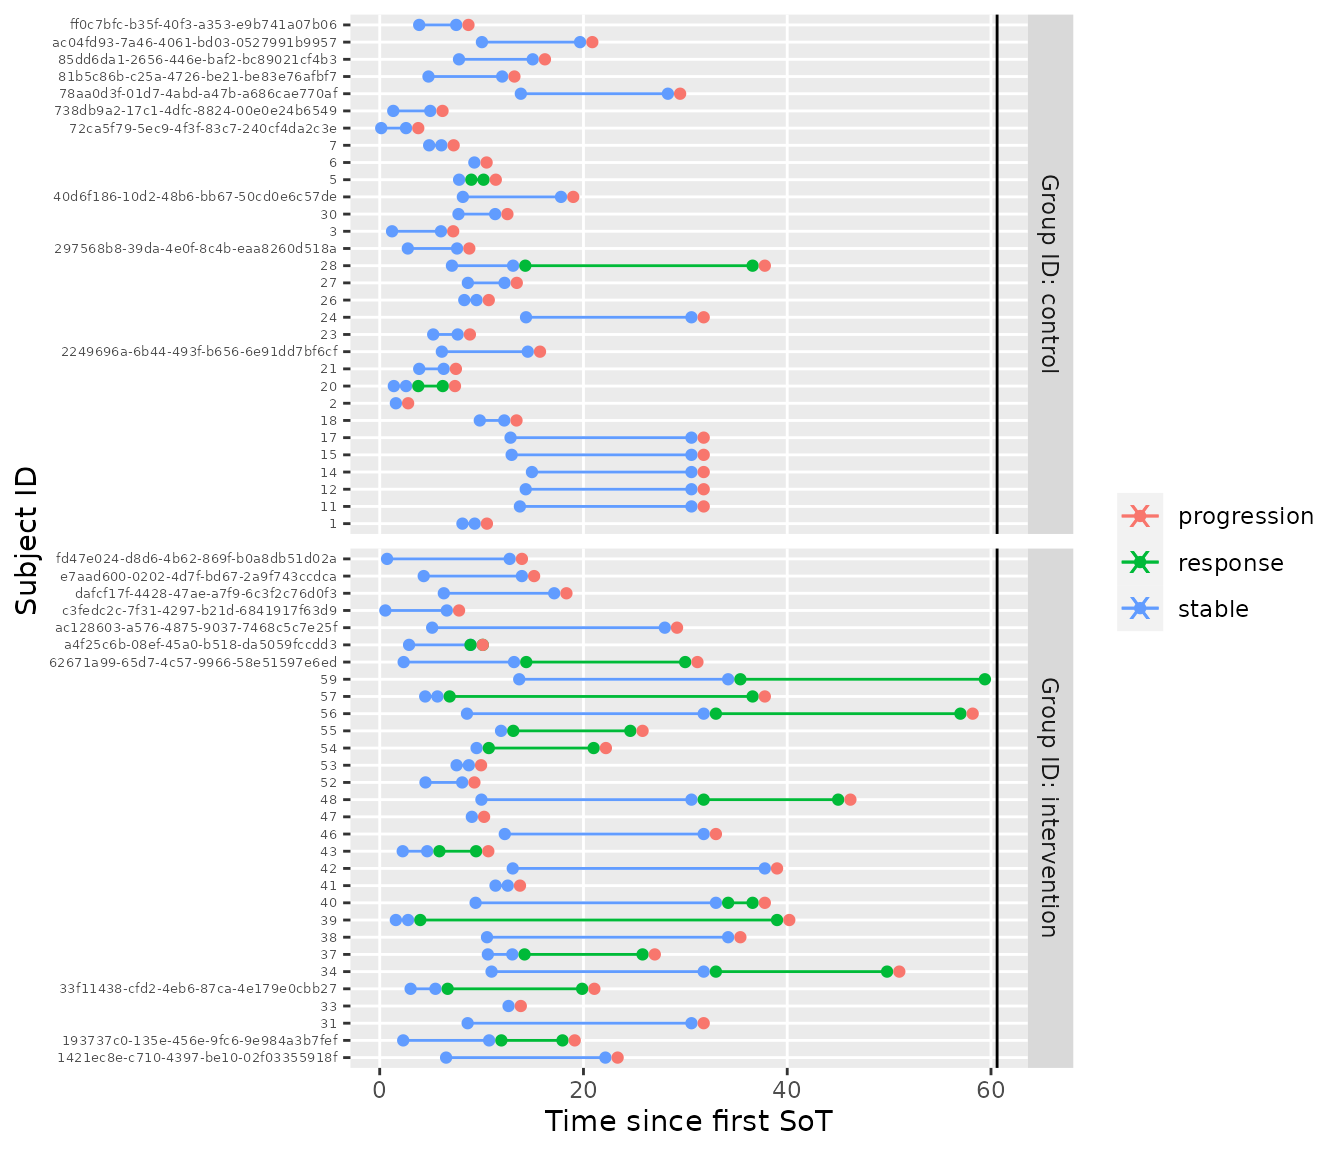
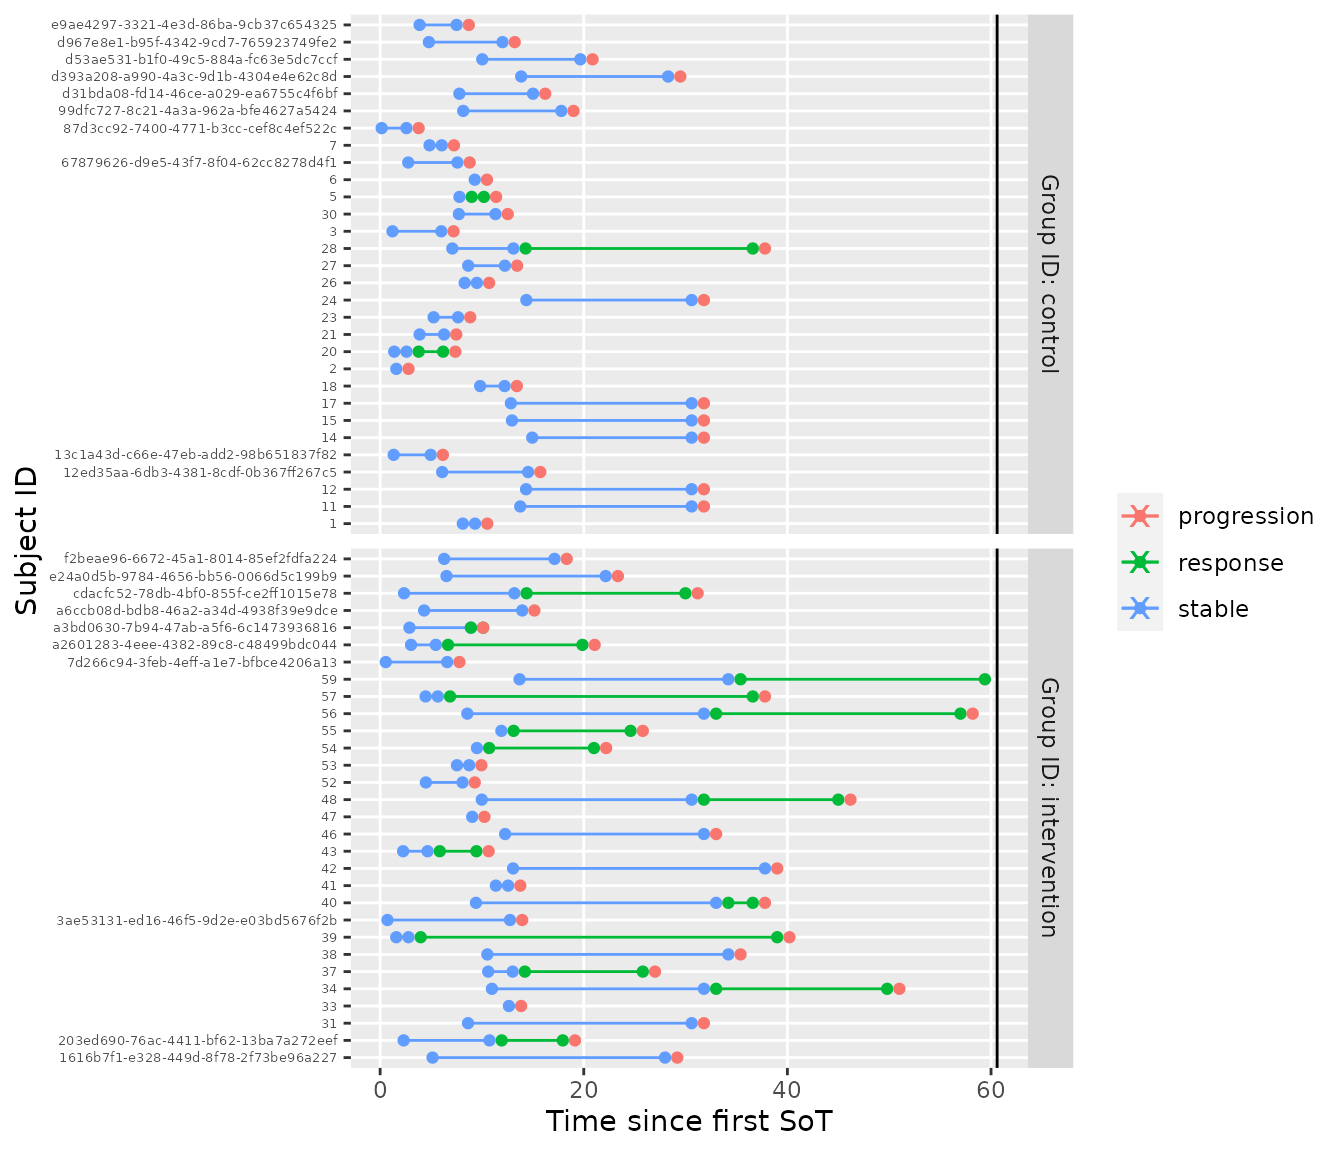
Deploying to gh-pages from @ Boehringer-Ingelheim/oncomsm@c155a6d2ede0ffe2783649ac5d74989cdfbe4db9 🚀

diff --git a/articles/multi-state-model-for-early-oncology.html b/articles/multi-state-model-for-early-oncology.html
@@ -90,10 +90,10 @@
 <p><strong>tl;dr:</strong> <em>Tumor response data is often treated as binary endpoint in early oncology trials (objective response or progression free survival at x months). This ignores the fact that these are time-to-event endpoints. Instead, the multi-state characteristics of the data can be exploited to reduce bias at interim analyses and drive event prediction for probability of success calculations.</em></p>
 <p>In early oncology trials, (objective tumor) response based on the RECIST criteria is often used as primary endpoint to establish the activity of a treatment. Response is often treated as binary variable although it is a delayed event endpoint. At the final analysis, this simplification is of little concern since all individuals tend to be followed up long enough to justify the assumption that non-responders are unlikely to still become responders. This approach is often plausible since individuals with tumors not responding to treatment ultimately progress. However, when continuously monitoring such a trial, the assumption of sufficient follow-up is no longer fulfilled and a simple binary analysis may be biased.</p>
 <p>In this vignette, the problem is addressed by extending the statistic binary response model to a three-state model for “stable”, “response”, and “progression or death”. The respective transition numbers are given in the graph below.</p>
-<div id="htmlwidget-54933b0518caf75d1bd4" style="width:672px;height:200px;" class="DiagrammeR html-widget"></div>
-<script type="application/json" data-for="htmlwidget-54933b0518caf75d1bd4">{"x":{"diagram":"\ngraph LR\n  stable -- 1 --> response\n  response -- 3 --> progression[progression or death]\n  stable -- 2 --> progression[progression or death]\n"},"evals":[],"jsHooks":[]}</script><p>Once someone becomes a responder, this model only allows a transition to the combined progression or death state. This means that progression and death are not modeled as competing events and simplifies analysis greatly over a model like the one below:</p>
-<div id="htmlwidget-e9be8e8c7e14ce83427d" style="width:672px;height:200px;" class="DiagrammeR html-widget"></div>
-<script type="application/json" data-for="htmlwidget-e9be8e8c7e14ce83427d">{"x":{"diagram":"\ngraph LR\n  stable -- 1 --> response\n  response -- 3a --> progression\n  response -- 3b --> death\n  progression -- 4 --> death\n  stable -- 2a --> progression\n  stable -- 2b --> death\n"},"evals":[],"jsHooks":[]}</script><p>Coming back to the simpler model, there is still a competing event issue when starting from ‘stable’. Often, the convenient hazard-based approach is used to model multi-state situations like this. The hazard-based approach is intuitive, especially when considering non-parametric estimation, and co variate inclusion is well-understood. However, a hazard-based approach has several disadvantages:</p>
+<div id="htmlwidget-a395fd945d453b030e94" style="width:672px;height:200px;" class="DiagrammeR html-widget"></div>
+<script type="application/json" data-for="htmlwidget-a395fd945d453b030e94">{"x":{"diagram":"\ngraph LR\n  stable -- 1 --> response\n  response -- 3 --> progression[progression or death]\n  stable -- 2 --> progression[progression or death]\n"},"evals":[],"jsHooks":[]}</script><p>Once someone becomes a responder, this model only allows a transition to the combined progression or death state. This means that progression and death are not modeled as competing events and simplifies analysis greatly over a model like the one below:</p>
+<div id="htmlwidget-5cb60651946dd58fbb45" style="width:672px;height:200px;" class="DiagrammeR html-widget"></div>
+<script type="application/json" data-for="htmlwidget-5cb60651946dd58fbb45">{"x":{"diagram":"\ngraph LR\n  stable -- 1 --> response\n  response -- 3a --> progression\n  response -- 3b --> death\n  progression -- 4 --> death\n  stable -- 2a --> progression\n  stable -- 2b --> death\n"},"evals":[],"jsHooks":[]}</script><p>Coming back to the simpler model, there is still a competing event issue when starting from ‘stable’. Often, the convenient hazard-based approach is used to model multi-state situations like this. The hazard-based approach is intuitive, especially when considering non-parametric estimation, and co variate inclusion is well-understood. However, a hazard-based approach has several disadvantages:</p>
 <ol style="list-style-type: decimal">
 <li><p>The hazard scale is difficult to interpret since it is a momentary risk, not a probability. This leads to problems with prior specification in a Bayesian setting. The Bayesian approach is, however, particularly useful in the early development process since it allows to augment data with prior opinion or evidence and thus improve accuracy.</p></li>
 <li><p>A hazard based, non-Markov multi-state model leads to intractable expressions for the implicitly given transition probabilities. Hence they need to be calculated by simulation which makes the model less convenient to work with if transition probabilities a or of primary interest. Since the (objective) response rate often plays an important role in the analysis of early oncology trials, this is a disadvantage.</p></li>
@@ -324,8 +324,8 @@ R &amp;\sim \operatorname{Bernoulli}(p) \\
 <span><span class="co">#&gt; </span></span>
 <span><span class="co">#&gt; SAMPLING FOR MODEL 'srp_model' NOW (CHAIN 1).</span></span>
 <span><span class="co">#&gt; Chain 1: </span></span>
-<span><span class="co">#&gt; Chain 1: Gradient evaluation took 0.000109 seconds</span></span>
-<span><span class="co">#&gt; Chain 1: 1000 transitions using 10 leapfrog steps per transition would take 1.09 seconds.</span></span>
+<span><span class="co">#&gt; Chain 1: Gradient evaluation took 0.000103 seconds</span></span>
+<span><span class="co">#&gt; Chain 1: 1000 transitions using 10 leapfrog steps per transition would take 1.03 seconds.</span></span>
 <span><span class="co">#&gt; Chain 1: Adjust your expectations accordingly!</span></span>
 <span><span class="co">#&gt; Chain 1: </span></span>
 <span><span class="co">#&gt; Chain 1: </span></span>
@@ -342,9 +342,9 @@ R &amp;\sim \operatorname{Bernoulli}(p) \\
 <span><span class="co">#&gt; Chain 1: Iteration: 4750 / 5250 [ 90%]  (Sampling)</span></span>
 <span><span class="co">#&gt; Chain 1: Iteration: 5250 / 5250 [100%]  (Sampling)</span></span>
 <span><span class="co">#&gt; Chain 1: </span></span>
-<span><span class="co">#&gt; Chain 1:  Elapsed Time: 0.933249 seconds (Warm-up)</span></span>
-<span><span class="co">#&gt; Chain 1:                10.2765 seconds (Sampling)</span></span>
-<span><span class="co">#&gt; Chain 1:                11.2098 seconds (Total)</span></span>
+<span><span class="co">#&gt; Chain 1:  Elapsed Time: 0.935392 seconds (Warm-up)</span></span>
+<span><span class="co">#&gt; Chain 1:                10.2599 seconds (Sampling)</span></span>
+<span><span class="co">#&gt; Chain 1:                11.1953 seconds (Total)</span></span>
 <span><span class="co">#&gt; Chain 1:</span></span>
 <span></span>
 <span><span class="fu"><a href="https://rdrr.io/r/graphics/plot.default.html" class="external-link">plot</a></span><span class="op">(</span><span class="va">mdl</span>, dt <span class="op">=</span> <span class="fu"><a href="https://rdrr.io/r/base/c.html" class="external-link">c</a></span><span class="op">(</span><span class="fl">0</span>, <span class="fl">36</span><span class="op">)</span>, sample <span class="op">=</span> <span class="va">smpl_posterior</span><span class="op">)</span></span></code></pre></div>
@@ -412,26 +412,26 @@ R &amp;\sim \operatorname{Bernoulli}(p) \\
 <span><span class="co">#&gt; <span style="color: #949494;"># A tibble: 20 × 7</span></span></span>
 <span><span class="co">#&gt;    group_id     subject_id                        t_sot from  to     t_min t_max</span></span>
 <span><span class="co">#&gt;    <span style="color: #949494; font-style: italic;">&lt;chr&gt;</span>        <span style="color: #949494; font-style: italic;">&lt;chr&gt;</span>                             <span style="color: #949494; font-style: italic;">&lt;dbl&gt;</span> <span style="color: #949494; font-style: italic;">&lt;chr&gt;</span> <span style="color: #949494; font-style: italic;">&lt;chr&gt;</span>  <span style="color: #949494; font-style: italic;">&lt;dbl&gt;</span> <span style="color: #949494; font-style: italic;">&lt;dbl&gt;</span></span></span>
-<span><span class="co">#&gt; <span style="color: #BCBCBC;"> 1</span> control      72ca5f79-5ec9-4f3f-83c7-240cf4d…  0.151 stab… <span style="color: #BB0000;">NA</span>     0.184   <span style="color: #BB0000;">Inf</span></span></span>
-<span><span class="co">#&gt; <span style="color: #BCBCBC;"> 2</span> control      738db9a2-17c1-4dfc-8824-00e0e24…  1.33  stab… <span style="color: #BB0000;">NA</span>     1.36    <span style="color: #BB0000;">Inf</span></span></span>
-<span><span class="co">#&gt; <span style="color: #BCBCBC;"> 3</span> control      297568b8-39da-4e0f-8c4b-eaa8260…  2.76  stab… <span style="color: #BB0000;">NA</span>     2.79    <span style="color: #BB0000;">Inf</span></span></span>
-<span><span class="co">#&gt; <span style="color: #BCBCBC;"> 4</span> control      ff0c7bfc-b35f-40f3-a353-e9b741a…  3.88  stab… <span style="color: #BB0000;">NA</span>     3.91    <span style="color: #BB0000;">Inf</span></span></span>
-<span><span class="co">#&gt; <span style="color: #BCBCBC;"> 5</span> control      81b5c86b-c25a-4726-be21-be83e76…  4.79  stab… <span style="color: #BB0000;">NA</span>     4.82    <span style="color: #BB0000;">Inf</span></span></span>
-<span><span class="co">#&gt; <span style="color: #BCBCBC;"> 6</span> control      2249696a-6b44-493f-b656-6e91dd7…  6.10  stab… <span style="color: #BB0000;">NA</span>     6.13    <span style="color: #BB0000;">Inf</span></span></span>
-<span><span class="co">#&gt; <span style="color: #BCBCBC;"> 7</span> control      85dd6da1-2656-446e-baf2-bc89021…  7.78  stab… <span style="color: #BB0000;">NA</span>     7.82    <span style="color: #BB0000;">Inf</span></span></span>
-<span><span class="co">#&gt; <span style="color: #BCBCBC;"> 8</span> control      40d6f186-10d2-48b6-bb67-50cd0e6…  8.16  stab… <span style="color: #BB0000;">NA</span>     8.20    <span style="color: #BB0000;">Inf</span></span></span>
-<span><span class="co">#&gt; <span style="color: #BCBCBC;"> 9</span> control      ac04fd93-7a46-4061-bd03-0527991… 10.0   stab… <span style="color: #BB0000;">NA</span>    10.1     <span style="color: #BB0000;">Inf</span></span></span>
-<span><span class="co">#&gt; <span style="color: #BCBCBC;">10</span> control      78aa0d3f-01d7-4abd-a47b-a686cae… 13.9   stab… <span style="color: #BB0000;">NA</span>    13.9     <span style="color: #BB0000;">Inf</span></span></span>
-<span><span class="co">#&gt; <span style="color: #BCBCBC;">11</span> intervention c3fedc2c-7f31-4297-b21d-6841917…  0.554 stab… <span style="color: #BB0000;">NA</span>     0.587   <span style="color: #BB0000;">Inf</span></span></span>
-<span><span class="co">#&gt; <span style="color: #BCBCBC;">12</span> intervention fd47e024-d8d6-4b62-869f-b0a8db5…  0.724 stab… <span style="color: #BB0000;">NA</span>     0.758   <span style="color: #BB0000;">Inf</span></span></span>
-<span><span class="co">#&gt; <span style="color: #BCBCBC;">13</span> intervention 193737c0-135e-456e-9fc6-9e984a3…  2.31  stab… <span style="color: #BB0000;">NA</span>     2.34    <span style="color: #BB0000;">Inf</span></span></span>
-<span><span class="co">#&gt; <span style="color: #BCBCBC;">14</span> intervention 62671a99-65d7-4c57-9966-58e5159…  2.35  stab… <span style="color: #BB0000;">NA</span>     2.38    <span style="color: #BB0000;">Inf</span></span></span>
-<span><span class="co">#&gt; <span style="color: #BCBCBC;">15</span> intervention a4f25c6b-08ef-45a0-b518-da5059f…  2.88  stab… <span style="color: #BB0000;">NA</span>     2.92    <span style="color: #BB0000;">Inf</span></span></span>
-<span><span class="co">#&gt; <span style="color: #BCBCBC;">16</span> intervention 33f11438-cfd2-4eb6-87ca-4e179e0…  3.04  stab… <span style="color: #BB0000;">NA</span>     3.07    <span style="color: #BB0000;">Inf</span></span></span>
-<span><span class="co">#&gt; <span style="color: #BCBCBC;">17</span> intervention e7aad600-0202-4d7f-bd67-2a9f743…  4.32  stab… <span style="color: #BB0000;">NA</span>     4.35    <span style="color: #BB0000;">Inf</span></span></span>
-<span><span class="co">#&gt; <span style="color: #BCBCBC;">18</span> intervention ac128603-a576-4875-9037-7468c5c…  5.15  stab… <span style="color: #BB0000;">NA</span>     5.18    <span style="color: #BB0000;">Inf</span></span></span>
-<span><span class="co">#&gt; <span style="color: #BCBCBC;">19</span> intervention dafcf17f-4428-47ae-a7f9-6c3f2c7…  6.29  stab… <span style="color: #BB0000;">NA</span>     6.33    <span style="color: #BB0000;">Inf</span></span></span>
-<span><span class="co">#&gt; <span style="color: #BCBCBC;">20</span> intervention 1421ec8e-c710-4397-be10-02f0335…  6.52  stab… <span style="color: #BB0000;">NA</span>     6.55    <span style="color: #BB0000;">Inf</span></span></span></code></pre></div>
+<span><span class="co">#&gt; <span style="color: #BCBCBC;"> 1</span> control      87d3cc92-7400-4771-b3cc-cef8c4e…  0.151 stab… <span style="color: #BB0000;">NA</span>     0.184   <span style="color: #BB0000;">Inf</span></span></span>
+<span><span class="co">#&gt; <span style="color: #BCBCBC;"> 2</span> control      13c1a43d-c66e-47eb-add2-98b6518…  1.33  stab… <span style="color: #BB0000;">NA</span>     1.36    <span style="color: #BB0000;">Inf</span></span></span>
+<span><span class="co">#&gt; <span style="color: #BCBCBC;"> 3</span> control      67879626-d9e5-43f7-8f04-62cc827…  2.76  stab… <span style="color: #BB0000;">NA</span>     2.79    <span style="color: #BB0000;">Inf</span></span></span>
+<span><span class="co">#&gt; <span style="color: #BCBCBC;"> 4</span> control      e9ae4297-3321-4e3d-86ba-9cb37c6…  3.88  stab… <span style="color: #BB0000;">NA</span>     3.91    <span style="color: #BB0000;">Inf</span></span></span>
+<span><span class="co">#&gt; <span style="color: #BCBCBC;"> 5</span> control      d967e8e1-b95f-4342-9cd7-7659237…  4.79  stab… <span style="color: #BB0000;">NA</span>     4.82    <span style="color: #BB0000;">Inf</span></span></span>
+<span><span class="co">#&gt; <span style="color: #BCBCBC;"> 6</span> control      12ed35aa-6db3-4381-8cdf-0b367ff…  6.10  stab… <span style="color: #BB0000;">NA</span>     6.13    <span style="color: #BB0000;">Inf</span></span></span>
+<span><span class="co">#&gt; <span style="color: #BCBCBC;"> 7</span> control      d31bda08-fd14-46ce-a029-ea6755c…  7.78  stab… <span style="color: #BB0000;">NA</span>     7.82    <span style="color: #BB0000;">Inf</span></span></span>
+<span><span class="co">#&gt; <span style="color: #BCBCBC;"> 8</span> control      99dfc727-8c21-4a3a-962a-bfe4627…  8.16  stab… <span style="color: #BB0000;">NA</span>     8.20    <span style="color: #BB0000;">Inf</span></span></span>
+<span><span class="co">#&gt; <span style="color: #BCBCBC;"> 9</span> control      d53ae531-b1f0-49c5-884a-fc63e5d… 10.0   stab… <span style="color: #BB0000;">NA</span>    10.1     <span style="color: #BB0000;">Inf</span></span></span>
+<span><span class="co">#&gt; <span style="color: #BCBCBC;">10</span> control      d393a208-a990-4a3c-9d1b-4304e4e… 13.9   stab… <span style="color: #BB0000;">NA</span>    13.9     <span style="color: #BB0000;">Inf</span></span></span>
+<span><span class="co">#&gt; <span style="color: #BCBCBC;">11</span> intervention 7d266c94-3feb-4eff-a1e7-bfbce42…  0.554 stab… <span style="color: #BB0000;">NA</span>     0.587   <span style="color: #BB0000;">Inf</span></span></span>
+<span><span class="co">#&gt; <span style="color: #BCBCBC;">12</span> intervention 3ae53131-ed16-46f5-9d2e-e03bd56…  0.724 stab… <span style="color: #BB0000;">NA</span>     0.758   <span style="color: #BB0000;">Inf</span></span></span>
+<span><span class="co">#&gt; <span style="color: #BCBCBC;">13</span> intervention 203ed690-76ac-4411-bf62-13ba7a2…  2.31  stab… <span style="color: #BB0000;">NA</span>     2.34    <span style="color: #BB0000;">Inf</span></span></span>
+<span><span class="co">#&gt; <span style="color: #BCBCBC;">14</span> intervention cdacfc52-78db-4bf0-855f-ce2ff10…  2.35  stab… <span style="color: #BB0000;">NA</span>     2.38    <span style="color: #BB0000;">Inf</span></span></span>
+<span><span class="co">#&gt; <span style="color: #BCBCBC;">15</span> intervention a3bd0630-7b94-47ab-a5f6-6c14739…  2.88  stab… <span style="color: #BB0000;">NA</span>     2.92    <span style="color: #BB0000;">Inf</span></span></span>
+<span><span class="co">#&gt; <span style="color: #BCBCBC;">16</span> intervention a2601283-4eee-4382-89c8-c48499b…  3.04  stab… <span style="color: #BB0000;">NA</span>     3.07    <span style="color: #BB0000;">Inf</span></span></span>
+<span><span class="co">#&gt; <span style="color: #BCBCBC;">17</span> intervention a6ccb08d-bdb8-46a2-a34d-4938f39…  4.32  stab… <span style="color: #BB0000;">NA</span>     4.35    <span style="color: #BB0000;">Inf</span></span></span>
+<span><span class="co">#&gt; <span style="color: #BCBCBC;">18</span> intervention 1616b7f1-e328-449d-8f78-2f73be9…  5.15  stab… <span style="color: #BB0000;">NA</span>     5.18    <span style="color: #BB0000;">Inf</span></span></span>
+<span><span class="co">#&gt; <span style="color: #BCBCBC;">19</span> intervention f2beae96-6672-45a1-8014-85ef2fd…  6.29  stab… <span style="color: #BB0000;">NA</span>     6.33    <span style="color: #BB0000;">Inf</span></span></span>
+<span><span class="co">#&gt; <span style="color: #BCBCBC;">20</span> intervention e24a0d5b-9784-4656-bb56-0066d5c…  6.52  stab… <span style="color: #BB0000;">NA</span>     6.55    <span style="color: #BB0000;">Inf</span></span></span></code></pre></div>
 <p>The hypothetical future first-visits can now be combined with the interim data and the trajectories can be sampled forward using the already fitted posterior distribution.</p>
 <div class="sourceCode" id="cb14"><pre class="downlit sourceCode r">
 <code class="sourceCode R"><span><span class="va">tbl_mstate_interim_forward</span> <span class="op">&lt;-</span> <span class="fu"><a href="https://dplyr.tidyverse.org/reference/bind.html" class="external-link">bind_rows</a></span><span class="op">(</span><span class="va">tbl_mstate_interim</span>, <span class="va">tbl_to_be_recruited</span><span class="op">)</span></span>
@@ -495,7 +495,7 @@ R &amp;\sim \operatorname{Bernoulli}(p) \\
 <span><span class="co">#&gt; [55] cachem_1.0.6         farver_2.1.1         fs_1.5.2            </span></span>
 <span><span class="co">#&gt; [58] bslib_0.4.0          ellipsis_0.3.2       ragg_1.2.3          </span></span>
 <span><span class="co">#&gt; [61] generics_0.1.3       vctrs_0.4.2          RColorBrewer_1.1-3  </span></span>
-<span><span class="co">#&gt; [64] tools_4.2.1          glue_1.6.2           purrr_0.3.4         </span></span>
+<span><span class="co">#&gt; [64] tools_4.2.1          glue_1.6.2           purrr_0.3.5         </span></span>
 <span><span class="co">#&gt; [67] processx_3.7.0       parallel_4.2.1       fastmap_1.1.0       </span></span>
 <span><span class="co">#&gt; [70] yaml_2.3.5           inline_0.3.19        colorspace_2.0-3    </span></span>
 <span><span class="co">#&gt; [73] memoise_2.0.1        knitr_1.40           patchwork_1.1.2     </span></span>

diff --git a/index.html b/index.html
@@ -76,7 +76,7 @@
 <div class="row">
   <main id="main" class="col-md-9">
 <!-- badges: end --><div class="section level1">
-<div class="page-header"><h1 id="bayesian-multi-state-models-for-oncology">Bayesian multi-state models for oncology<a class="anchor" aria-label="anchor" href="#bayesian-multi-state-models-for-oncology"></a>
+<div class="page-header"><h1 id="bayesian-multi-state-models-for-early-oncology">Bayesian multi-state models for early oncology<a class="anchor" aria-label="anchor" href="#bayesian-multi-state-models-for-early-oncology"></a>
 </h1></div>
 <p><strong>Tl;dr:</strong> This package implements methods to dynamically predict response and progression of individuals in early oncology trials using parametric <a href="https://boehringer-ingelheim.github.io/oncomsm/articles/multi-state-model-for-early-oncology.html">multi-state models</a> and Bayesian inference. This allows the dynamic computation of “probability of success” for a wide range of success criteria.</p>
 <div class="section level2">
